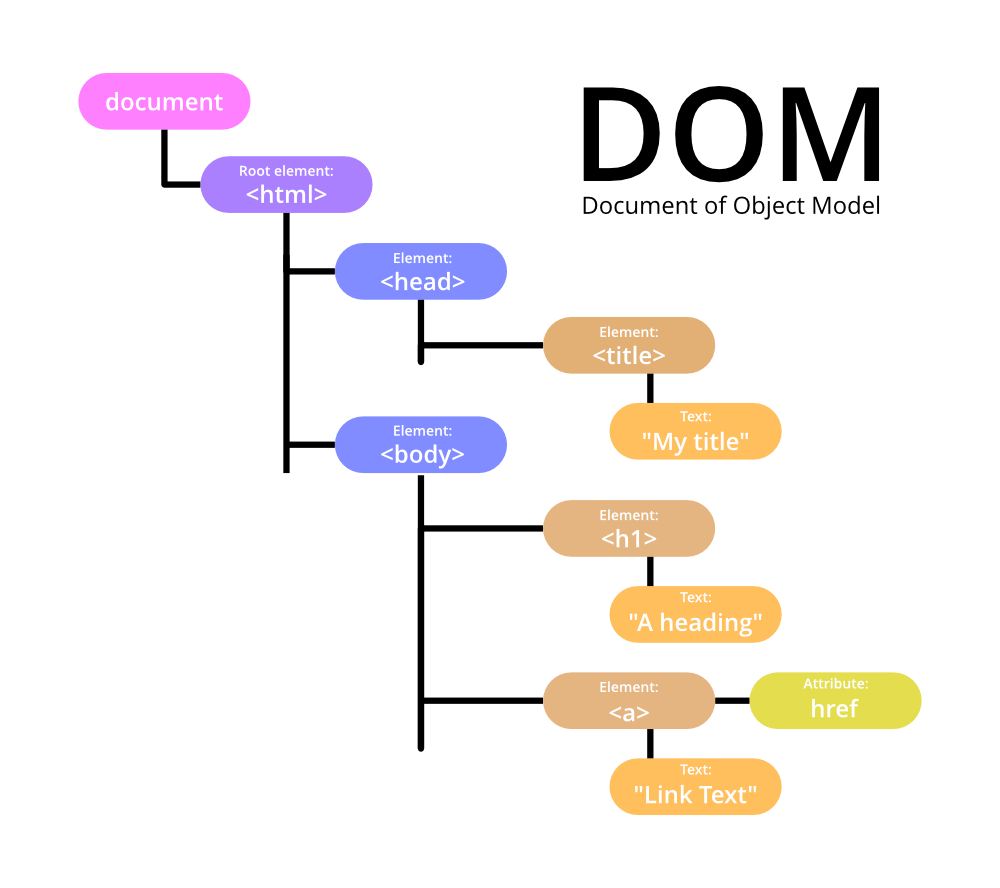
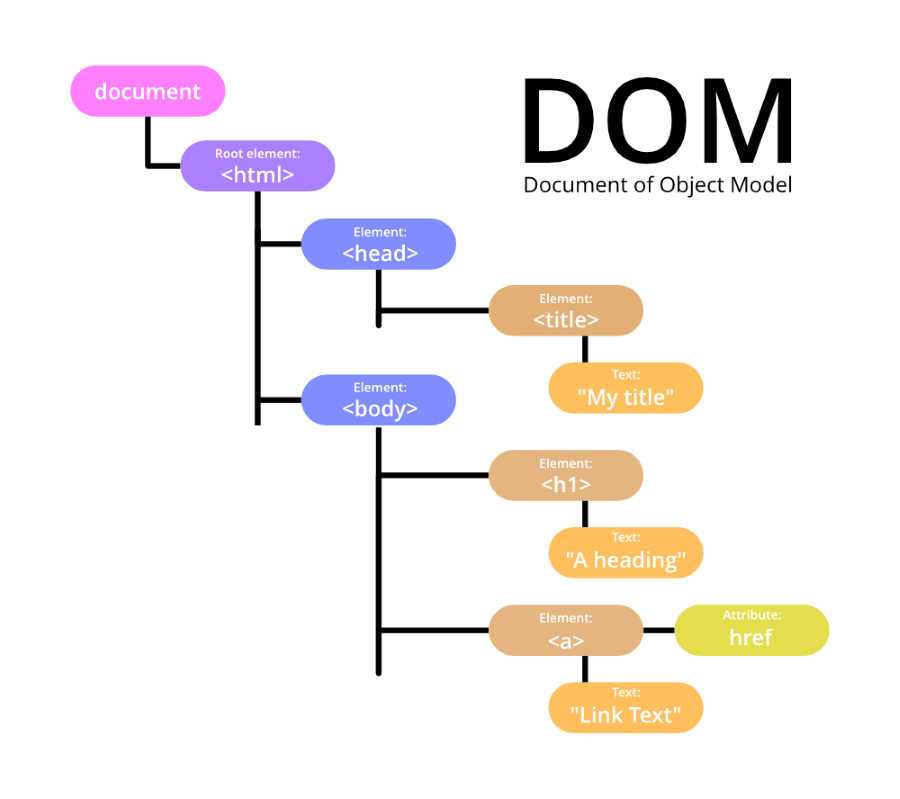
fix image section JavaScript

diff --git a/docs/32_frontend_scripting_js/README.md b/docs/32_frontend_scripting_js/README.md
@@ -359,11 +359,11 @@ At the top level is the **browser object model** with information from the curre
 
 ![image](./images/image1.png)
 
-At level lower you can find the **DOM (Document Object Model** with information about the HTML structure of the page.
+At level lower you can find the **DOM (Document Object Model)** with information about the HTML structure of the page.
 
-![image](./images/image2b.png)
+![image](./images/image2.png)
 
-### link to HTML elements
+### Link to HTML elements
 
 There are a few possibilities to retrieve elements of an HTML page in JavaScript by using `window.document.function()`. Note: `window.` can be omitted here.
 
